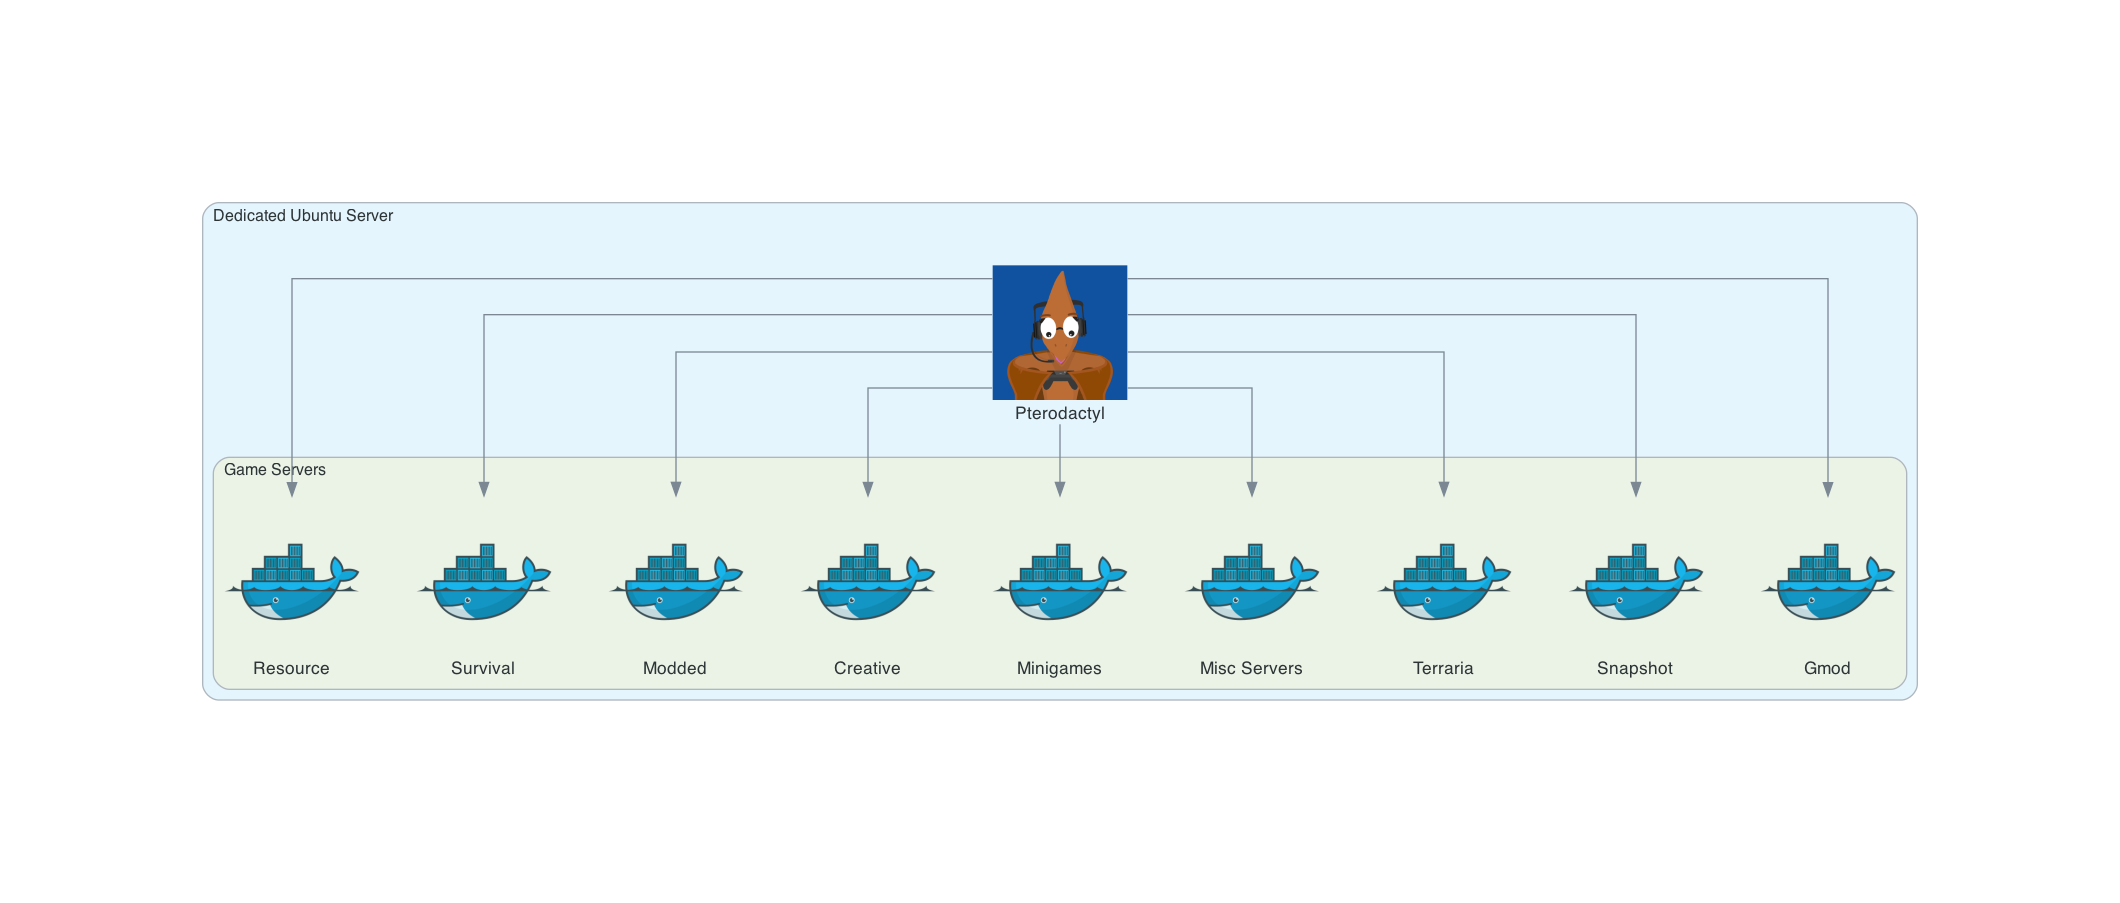
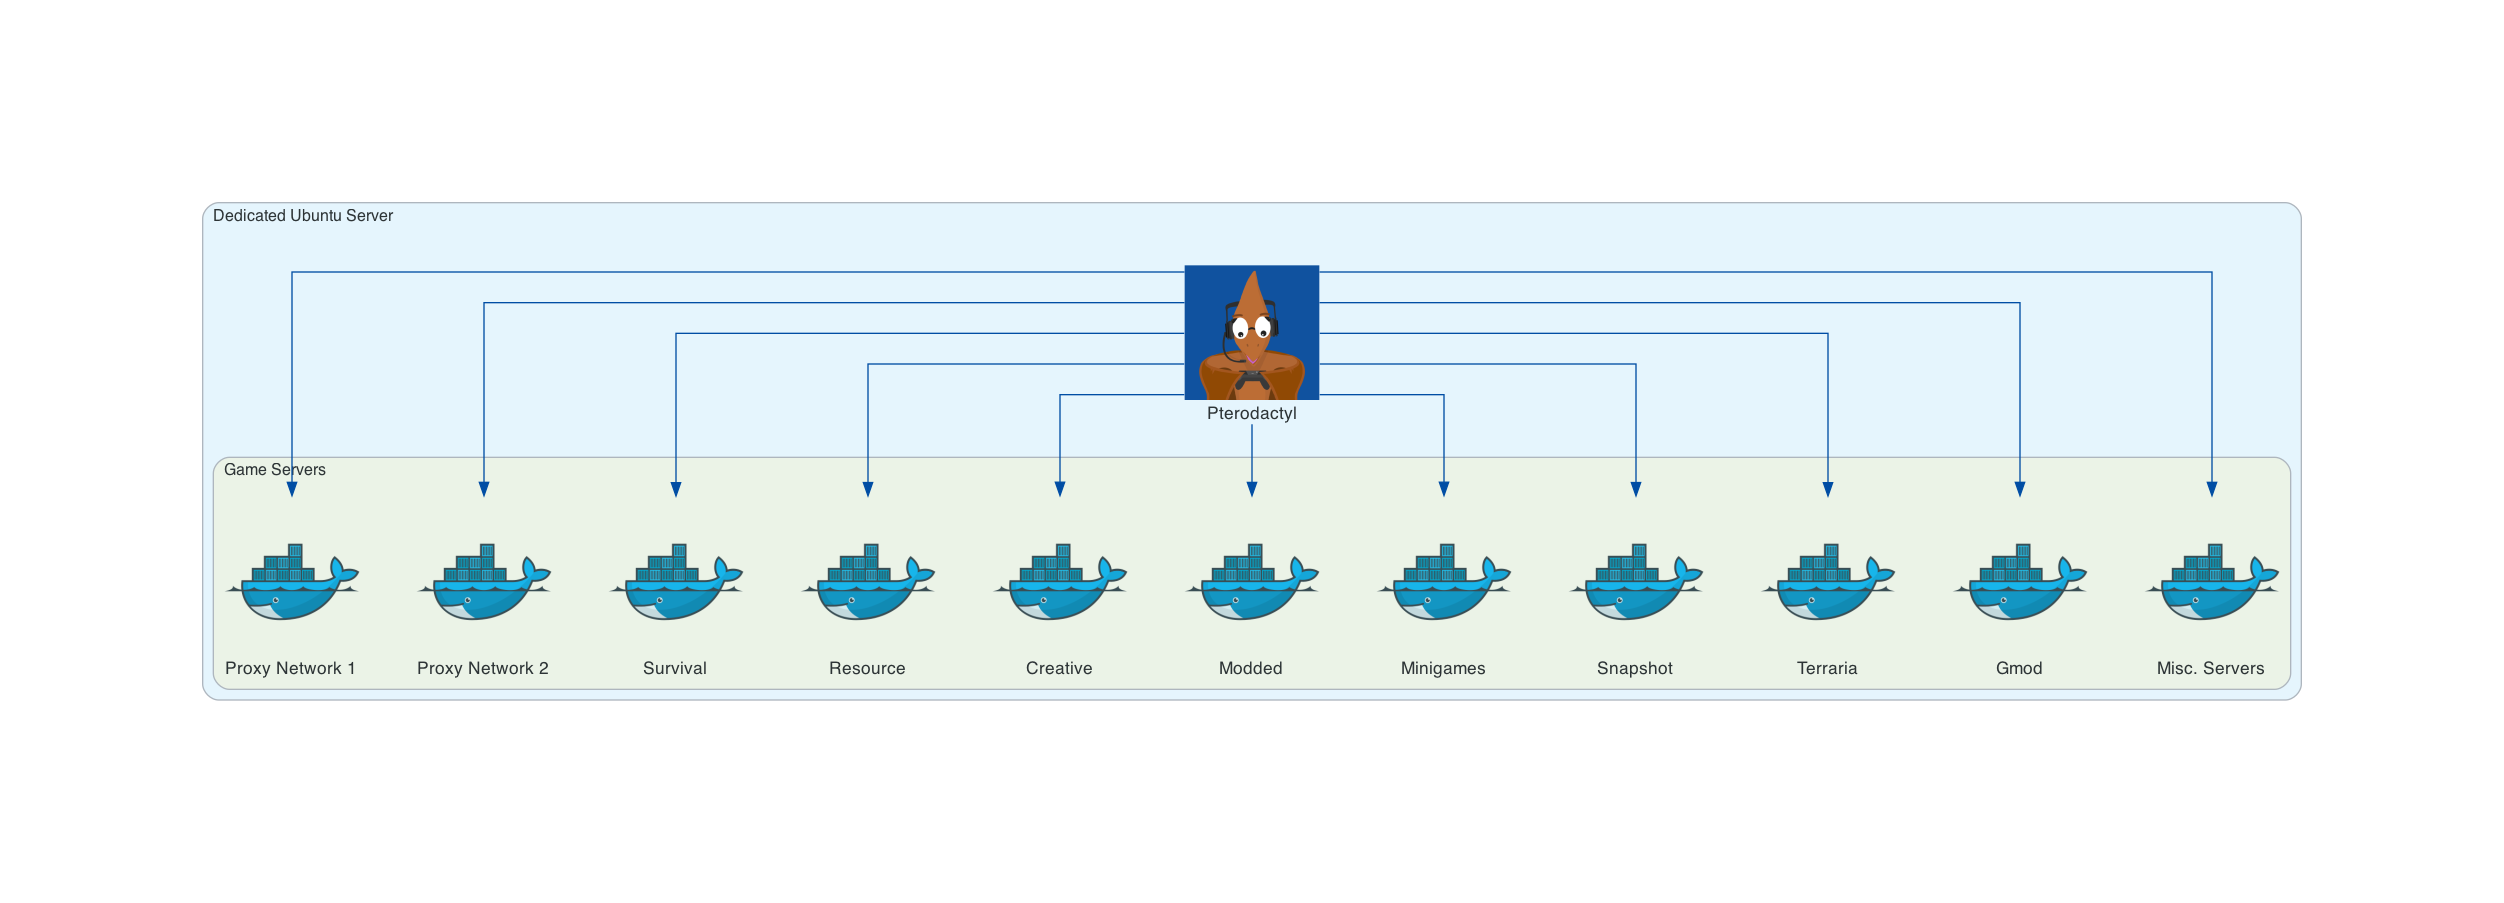
Add bots diagram Colour ungrouped game servers Rename proxy server files

diff --git a/game_servers/game_servers_grouped.py b/game_servers/game_servers_grouped.py
@@ -4,6 +4,7 @@ from urllib.request import urlretrieve
 from diagrams import Cluster, Diagram, Edge
 from diagrams.onprem.container import Docker
 from diagrams.custom import Custom
+from diagrams.generic.blank import Blank
 
 #Pterodactyl
 pterodactyl_url = "https://avatars.githubusercontent.com/u/16179146"
@@ -15,18 +16,18 @@ with Diagram(filename="game_servers_grouped", show=True, direction="TB"):
     with Cluster("Dedicated Ubuntu Server"):
 
         with Cluster("Game Servers - Other servers"):
+            misc = Docker("Misc. Servers")
             gmod = Docker("Gmod")
-            snapshot = Docker("Snapshot")
             terraria = Docker("Terraria")
-            misc = Docker("Misc Servers")
-            nonbungee = [gmod, snapshot, terraria, misc]
+            snapshot = Docker("Snapshot")
+            nonbungee = [misc, gmod, terraria, snapshot]
 
         with Cluster("Game Servers - Bungee Network 2"):
             proxy2 = Docker("Proxy Network 2")
             creative = Docker("Creative")
             modded = Docker("Modded")
             minigames = Docker("Minigames")
-            proxy2 >> Edge(color="darkgreen") >> [minigames, creative, modded]
+            proxy2 >> Edge(color="darkgreen") >> [minigames, modded, creative]
 
         with Cluster("Game Servers - Bungee Network 1"):
             proxy1 = Docker("Proxy Network 1")
@@ -34,3 +35,4 @@ with Diagram(filename="game_servers_grouped", show=True, direction="TB"):
             resource = Docker("Resource")
             proxy1 >> Edge(color="darkgreen") << survival
             proxy1 >> Edge(color="darkgreen") << resource
+

diff --git a/game_servers/game_servers_ungrouped.py b/game_servers/game_servers_ungrouped.py
@@ -16,6 +16,8 @@ with Diagram(filename="game_servers_ungrouped", show=True, direction="TB"):
         pterodactyl = Custom("Pterodactyl", pterodactyl_icon)
 
         with Cluster("Game Servers"):
+            proxy1 = Docker("Proxy Network 1")
+            proxy2 = Docker("Proxy Network 2")
             survival = Docker("Survival")
             resource = Docker("Resource")
             creative = Docker("Creative")
@@ -24,7 +26,9 @@ with Diagram(filename="game_servers_ungrouped", show=True, direction="TB"):
             gmod = Docker("Gmod")
             snapshot = Docker("Snapshot")
             terraria = Docker("Terraria")
-            misc = Docker("Misc Servers")
-            servers = [gmod, snapshot, terraria, misc, minigames, creative, modded, survival, resource]
+            misc = Docker("Misc. Servers")
 
-            pterodactyl >> servers
+            servers = [misc, gmod, terraria, snapshot, minigames, modded, creative, resource, survival, proxy2, proxy1]
+
+            pterodactyl >> Edge(color="#004da4") >> servers
+           

diff --git a/bots/bots.py b/bots/bots.py
@@ -1,0 +1,27 @@
+# diagram.py
+from diagrams import Cluster, Diagram, Edge
+from diagrams.onprem.container import Docker
+from diagrams.custom import Custom
+
+from urllib.request import urlretrieve
+
+#Pterodactyl
+pterodactyl_url = "https://avatars.githubusercontent.com/u/16179146"
+pterodactyl_icon = "pterodactyl.png"
+urlretrieve(pterodactyl_url, pterodactyl_icon)
+
+with Diagram(filename="bots", show=True, direction="TB"):
+    with Cluster("Dedicated Ubuntu Server"):
+
+        pterodactyl = Custom("Pterodactyl", pterodactyl_icon)
+
+        with Cluster("Bots"):
+            emojirolesbot = Docker("Emoji Roles Bot")
+            modbot = Docker("Modbot")
+            applicationbot = Docker("Application Bot")
+            playerlistbot = Docker("Playerlist Bot")    
+            snackerinactivitybot = Docker("Snacker/Inactvity Bot")
+            musicbot = Docker("Music Bot")
+
+        bots = [ applicationbot, modbot, emojirolesbot, playerlistbot, snackerinactivitybot, musicbot]
+        pterodactyl >> Edge(color="#004da4") >> bots

diff --git a/proxy_servers/proxy_servers.py b/proxy_servers/proxy_servers.py
@@ -12,7 +12,7 @@ phpmyadmin_url = "https://upload.wikimedia.org/wikipedia/commons/4/4f/PhpMyAdmin
 phpmyadmin_icon = "phpmyadmin.png"
 urlretrieve(phpmyadmin_url, phpmyadmin_icon)
 
-with Diagram(filename="game_proxies", show=True):
+with Diagram(filename="proxy_servers", show=True):
     
     applications = Discord("#applications")
 
